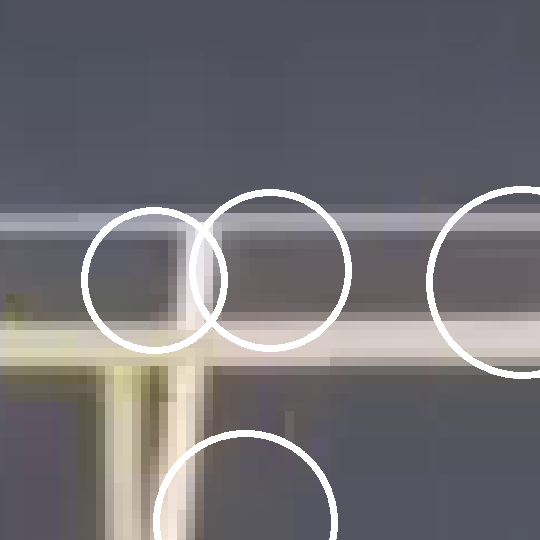
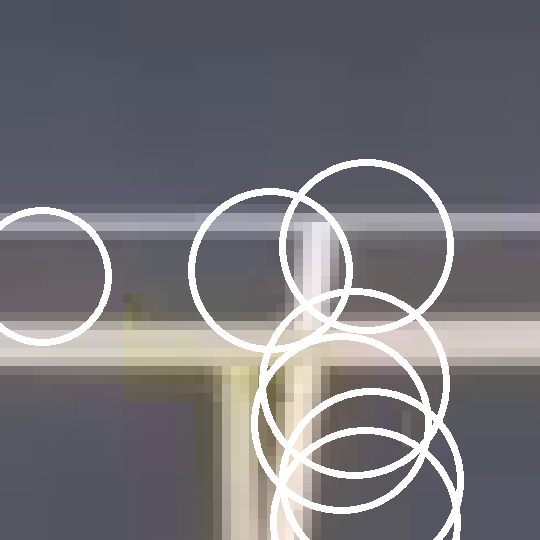
Created Function to detect circles

diff --git a/AI/ball_tracking2_zoom_prueba.py b/AI/ball_tracking2_zoom_prueba.py
@@ -163,90 +163,16 @@ def main(frame):
         TiempoDeteccionUltimaPelota += 1/fps
         TiempoTresCentrosConsecutivos = 0
 
+    if numeroFrame == 117: cv2.imwrite("Frame117.jpg", frame)
+
     if centro is None and preCentro is not None:
-        # Ajustar los puntos de recorte si están fuera de rango
-        x1 = max(preCentro[0][0] - recorteCerca, 0)
-        y1 = max(preCentro[0][1] - recorteCerca, 0)
-        x2 = min(preCentro[0][0] + recorteCerca, anchoOG * 3)
-        y2 = min(preCentro[0][1] + recorteCerca, altoOG * 3)
+        centro = deteccionPorCirculos(preCentro, frame)
 
-        # Recortar la región de interés de la imagen original
-        imagen_recortada = frame[y1:y2, x1:x2]
-
-        # Agrandamos el frame para ver más la pelota
-        imagen_recortada = imutils.resize(imagen_recortada, imagen_recortada.shape[1] * resizer, imagen_recortada.shape[0] * resizer)
-
-        # Convertir la imagen a escala de grises
-        imagen_gris = cv2.cvtColor(imagen_recortada, cv2.COLOR_BGR2GRAY)
-
-        # Aplicar un suavizado si es necesario
-        blurred = cv2.GaussianBlur(imagen_gris, (11, 11), 0)
-
-        # Busca los círculos en la imagen utilizando HoughCircles
-        # DP dice que si los círculos cercanos van a ser fusionados, o sea cuando el número aumenta es más probable que se fusionen. Tal vez haga que la posición del círculo no sea tan precisa. Suele variar entre 1, 1.2, 1.4
-        # Param1 es la sensibilidad que tiene para encontrar círculos. Si es muy grande, no va a encontrar muchos círculos y si es muy chico va a encontrar muchos círculos. Hay que encontrar un punto medio.
-        # Param2 es la precisión de la detección de círculos. Setea la cantidad de puntos del borde para que lo detectado sea considerado un círculo. Si es muy grande, no va a encontrar muchos círculos y si es muy chico va a encontrar muchos círculos. Hay que encontrar un punto medio.
-        
-        #circles = cv2.HoughCircles(blurred, cv2.HOUGH_GRADIENT, dp=1.2, minDist=50, param1=50, param2=25, minRadius=1, maxRadius=100)
-        #circles = cv2.HoughCircles(blurred, cv2.HOUGH_GRADIENT, dp=1.2, minDist=50, param1=50, param2=25, minRadius=3, maxRadius=100)
-        circles = cv2.HoughCircles(blurred, cv2.HOUGH_GRADIENT, dp=1.2, minDist=50, param1=50, param2=25, minRadius=5, maxRadius=100)
-
-        if circles is not None:
-            circuloDetectado = tp_fix(circles[0], ((imagen_recortada.shape[0] / 2, imagen_recortada.shape[1] / 2), radioDeteccionPorCirculo * 3), 0.2, True, imagen_recortada)
-            if numeroFrame == 53: cv2.imwrite("Frame53.jpg", frame)
-            if circuloDetectado is not None:
-                cv2.circle(imagen_recortada, (int(circuloDetectado[0]), int(circuloDetectado[1])), 50, (255, 255, 0), thickness = 2)
-
-                xr = int(x1 + circuloDetectado[0] / 3)
-                yr = int(y1 + circuloDetectado[1] / 3)
-                rr = int(circuloDetectado[2] / 3)
-
-                cv2.circle(frame, (xr, yr), rr, (255, 255, 0), thickness = 2)
-
-                centro = ((xr, yr), rr)
-                ultimosCentrosCirculo.appendleft(centro)
-                radioDeteccionPorCirculo = circuloDetectado[2] / 3
-                TiempoDeteccionUltimaPelota = 0
-
-            else: radioDeteccionPorCirculo = radio
-
-        else: radioDeteccionPorCirculo = radio
-            
         if len(ultimosCentrosCirculo) == 5:
             if seEstaMoviendo(ultimosCentrosCirculo) == False:
                 primeraVez = True
                 ultimosCentrosCirculo.clear()
-
-        # Si se encuentran círculos, dibújalos en la imagen original
-        if circles is not None:
-            circles = np.round(circles[0, :]).astype(int)
-            for (x, y, r) in circles:
-                #if abs(r - radioDeteccionPorCirculo * 3) < 10: cv2.circle(imagen_recortada, (x, y), r, (0, 255, 0), 2)
-                cv2.circle(imagen_recortada, (x, y), r, (0, 255, 0), 2)
-            
-        # pausado = True
-
-        # if numeroFrame > 40:
-        #     while True:
-        #         # Verificar si se debe pausar la imagen
-        #         if pausado:
-        #             # Esperar hasta que se presione cualquier tecla
-        #             cv2.waitKey(0)
-        #             pausado = False
-        #         else:
-        #             # Esperar 1 milisegundo y obtener el código de tecla
-        #             key = cv2.waitKey(1)
-                  
-        #             # Verificar si se debe pausar la imagen
-        #             if key == ord('p'):
-        #                 pausado = True
-        #             # Verificar si se debe salir del bucle
-        #             elif key == ord('q'):
-        #                 break
-
-        imagen_recortada = imutils.resize(imagen_recortada, int(imagen_recortada.shape[1] / resizer), int(imagen_recortada.shape[0] / resizer))
-        cv2.imshow("Imagen recortada", imagen_recortada)
-
+        
     else: radioDeteccionPorCirculo = radio
 
     # if centro is None:
@@ -568,8 +494,8 @@ def tp_fix(contornos, pre_centro, count, circulo, imagen_recortada):
             cnts_pts.append(contorno)
         else:
             x, y, radius = contorno
-            print("Contorno", contorno)
-            if numeroFrame == 55: cv2.imwrite("imagen_recortada55.png", imagen_recortada)
+            #print("Contorno", contorno)
+            if numeroFrame == 53: cv2.imwrite("imagen_recortada53.png", imagen_recortada)
             if abs(radius - pre_centro[1]) > 15 and count <= 0.5:
                 continue
             cv2.circle(imagen_recortada, (int(x), int(y)), int(radius + 20), (255, 255, 255), 5)
@@ -587,7 +513,7 @@ def cualEstaMasCerca(punto, lista, circulo):
         # Obtenemos las diferencias entre el preCentro y el círculo a comparar que proviene del contorno.
         if circulo:
             xCenter, yCenter, radius = i
-            print("I", i)
+            #print("I", i)
         else: (xCenter, yCenter), radius = cv2.minEnclosingCircle(i)
         difEnX = abs(int(xCenter) - int(punto[0][0]))
         difEnY = abs(int(yCenter) - int(punto[0][1]))
@@ -596,9 +522,9 @@ def cualEstaMasCerca(punto, lista, circulo):
         # Guardamos los valores en listas
         suma.append(difEnX + difEnY + difRadio * 3)
         suma2.append(i)
-    print("Suma", suma)
+    #print("Suma", suma)
     #print("Suma2", suma2)
-    print("Return", suma2[suma.index(min(suma))])
+    #print("Return", suma2[suma.index(min(suma))])
     # Devolvemos el valor más chico que represeta el círculo a menor distancia del preCentro
     return suma2[suma.index(min(suma))]
 
@@ -760,6 +686,100 @@ def estaEnCancha(centro_pelota, perspectiva):
         return False
     return None
 
+def deteccionPorCirculos(preCentro, frame):
+    global primeraVez
+    global TiempoDeteccionUltimaPelota
+    global radioDeteccionPorCirculo
+    global centro
+    global ultimosCentrosCirculo
+
+    #greenLower2 = np.array([29, 15, 100], dtype=np.uint8)
+    #greenUpper2 = np.array([200, 255, 255], dtype=np.uint8)
+
+    # Ajustar los puntos de recorte si están fuera de rango
+    x1 = max(preCentro[0][0] - recorteCerca, 0)
+    y1 = max(preCentro[0][1] - recorteCerca, 0)
+    x2 = min(preCentro[0][0] + recorteCerca, anchoOG * 3)
+    y2 = min(preCentro[0][1] + recorteCerca, altoOG * 3)
+
+    # Recortar la región de interés de la imagen original
+    imagen_recortada = frame[y1:y2, x1:x2]
+
+    # Agrandamos el frame para ver más la pelota
+    imagen_recortada = imutils.resize(imagen_recortada, imagen_recortada.shape[1] * resizer, imagen_recortada.shape[0] * resizer)
+
+    # Convertir la imagen a escala de grises
+    imagen_gris = cv2.cvtColor(imagen_recortada, cv2.COLOR_BGR2GRAY)
+
+    # Aplicar un suavizado si es necesario
+    blurred = cv2.GaussianBlur(imagen_gris, (11, 11), 0)
+
+    # Busca los círculos en la imagen utilizando HoughCircles
+    # DP dice que si los círculos cercanos van a ser fusionados, o sea cuando el número aumenta es más probable que se fusionen. Tal vez haga que la posición del círculo no sea tan precisa. Suele variar entre 1, 1.2, 1.4
+    # Param1 es la sensibilidad que tiene para encontrar círculos. Si es muy grande, no va a encontrar muchos círculos y si es muy chico va a encontrar muchos círculos. Hay que encontrar un punto medio.
+    # Param2 es la precisión de la detección de círculos. Setea la cantidad de puntos del borde para que lo detectado sea considerado un círculo. Si es muy grande, no va a encontrar muchos círculos y si es muy chico va a encontrar muchos círculos. Hay que encontrar un punto medio.
+    
+    #circles = cv2.HoughCircles(blurred, cv2.HOUGH_GRADIENT, dp=1.2, minDist=50, param1=50, param2=25, minRadius=1, maxRadius=100)
+    #circles = cv2.HoughCircles(blurred, cv2.HOUGH_GRADIENT, dp=1.2, minDist=50, param1=50, param2=25, minRadius=3, maxRadius=100)
+    circles = cv2.HoughCircles(blurred, cv2.HOUGH_GRADIENT, dp=1.2, minDist=40, param1=50, param2=25, minRadius=5, maxRadius=100)
+
+    centro = None
+
+    if circles is not None:
+        circuloDetectado = tp_fix(circles[0], ((imagen_recortada.shape[0] / 2, imagen_recortada.shape[1] / 2), radioDeteccionPorCirculo * 3), 0.2, True, imagen_recortada)
+        if numeroFrame == 53: cv2.imwrite("Frame53.jpg", frame)
+        if circuloDetectado is not None:
+            cv2.circle(imagen_recortada, (int(circuloDetectado[0]), int(circuloDetectado[1])), 50, (255, 255, 0), thickness = 2)
+
+            xr = int(x1 + circuloDetectado[0] / 3)
+            yr = int(y1 + circuloDetectado[1] / 3)
+            rr = int(circuloDetectado[2] / 3)
+
+            cv2.circle(frame, (xr, yr), rr, (255, 255, 0), thickness = 2)
+
+            centro = ((xr, yr), rr)
+            ultimosCentrosCirculo.appendleft(centro)
+            radioDeteccionPorCirculo = circuloDetectado[2] / 3
+            TiempoDeteccionUltimaPelota = 0
+
+        else: radioDeteccionPorCirculo = radio
+
+    else: radioDeteccionPorCirculo = radio
+
+    # Si se encuentran círculos, dibújalos en la imagen original
+    if circles is not None:
+        circles = np.round(circles[0, :]).astype(int)
+        for (x, y, r) in circles:
+            #if abs(r - radioDeteccionPorCirculo * 3) < 10: cv2.circle(imagen_recortada, (x, y), r, (0, 255, 0), 2)
+            cv2.circle(imagen_recortada, (x, y), r, (0, 255, 0), 2)
+        
+    pausado = True
+
+    if numeroFrame > 40:
+        while True:
+            # Verificar si se debe pausar la imagen
+            if pausado:
+                # Esperar hasta que se presione cualquier tecla
+                cv2.waitKey(0)
+                pausado = False
+            else:
+                # Esperar 1 milisegundo y obtener el código de tecla
+                key = cv2.waitKey(1)
+                
+                # Verificar si se debe pausar la imagen
+                if key == ord('p'):
+                    pausado = True
+                # Verificar si se debe salir del bucle
+                elif key == ord('q'):
+                    break
+
+    imagen_recortada = imutils.resize(imagen_recortada, int(imagen_recortada.shape[1] / resizer), int(imagen_recortada.shape[0] / resizer))
+    cv2.imshow("Imagen recortada", imagen_recortada)
+
+    if centro is not None:
+        return centro
+    return None
+
 # Toma la cámara si no recibe video
 if not args.get("video", False):
     vs = cv2.VideoCapture(0)
@@ -859,7 +879,7 @@ recorteCerca = 200
 recorteCerca = 150
 recorteCerca = 100
 recorteCerca = 90
-#recorteCerca = 200
+recorteCerca = 200
 
 radioDeteccionPorCirculo = 0
 
